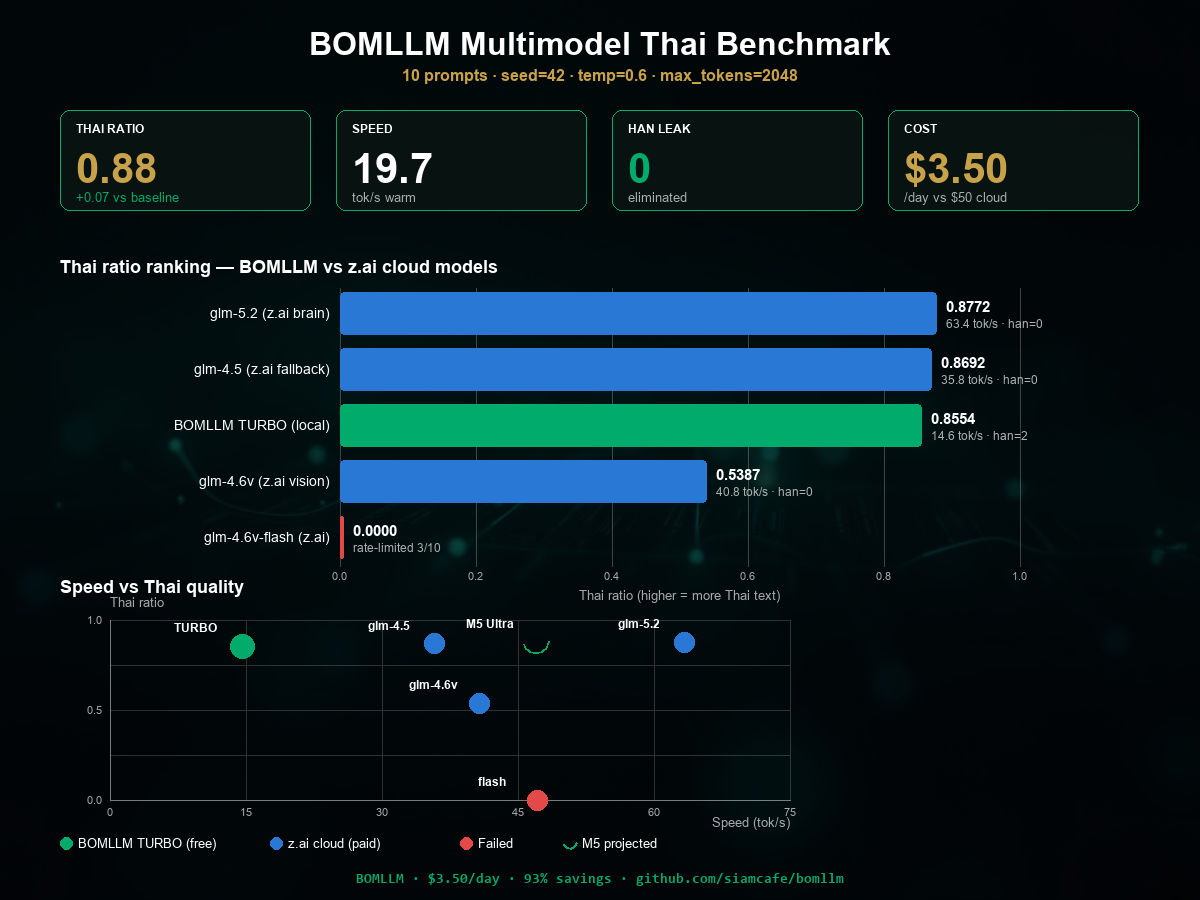
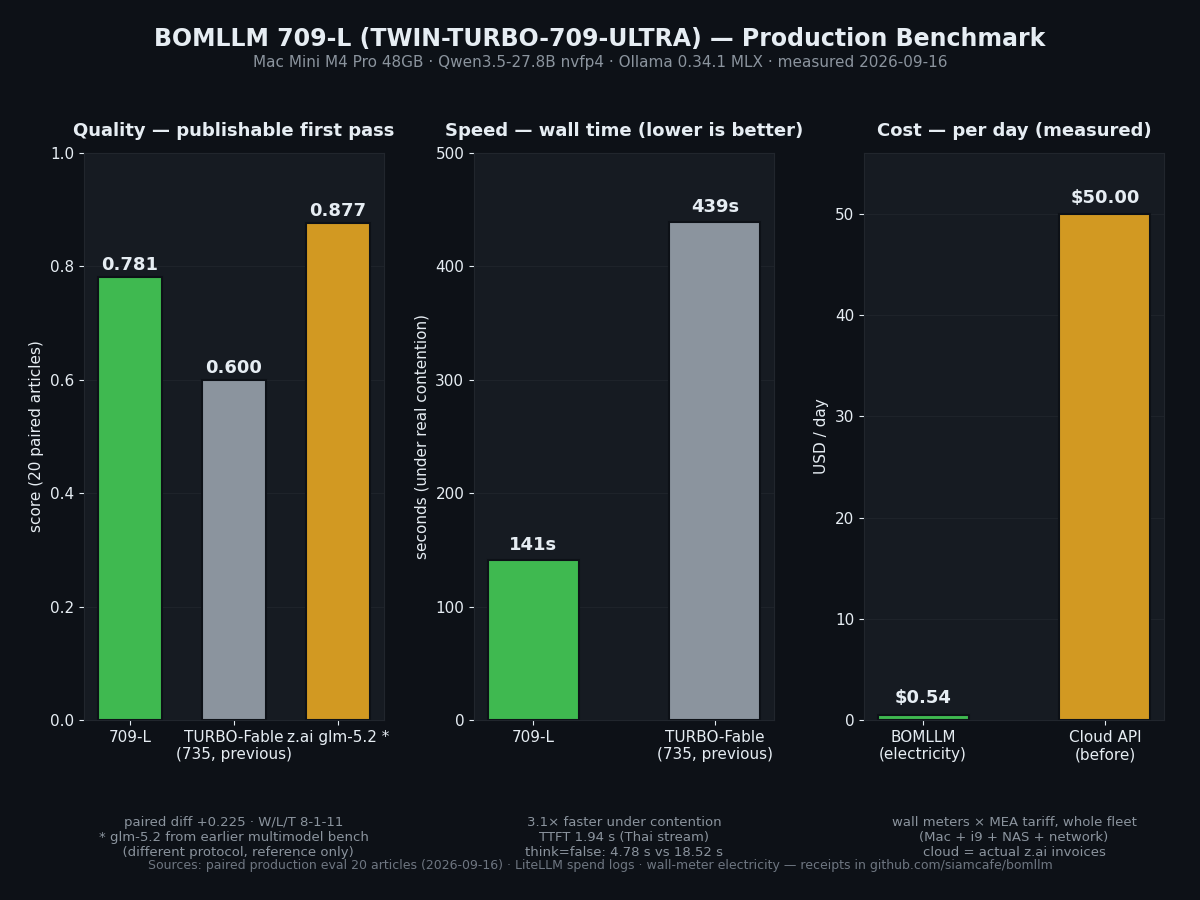
docs: update to 709-L model + Ollama 0.34.1 benchmark [ops-hub]

diff --git a/README.md b/README.md
@@ -44,8 +44,8 @@ flowchart TB
     TS{"Tailscale mesh VPN"}
 
     subgraph MAC["Mac Mini M4 Pro 48GB — 'the brain'"]
-        OL["Ollama 0.34 (MLX backend)"]
-        M1["Qwen3.8-27B class<br/>709-L nvfp4 (since 2026-09-16)<br/>~30 tok/s · 23 GB resident"]
+        OL["Ollama 0.34.1 (MLX backend)"]
+        M1["Qwen3.5-27.8B class<br/>709-L (TWIN-TURBO-709-ULTRA) nvfp4<br/>~30 tok/s · 23 GB resident"]
         EMB["bge-m3 embeddings"]
     end
 
@@ -140,14 +140,26 @@ Every number above is reproducible with [benchmarks/README.md](benchmarks/README
 
 ### The 709-L cutover (2026-09-16)
 
-The resident model was promoted from the 735 tune to **709-L** (same
-27B TURBO-Fable series, MLX nvfp4) after a paired production eval on 20
+The resident model was promoted from the 735 tune to **709-L**
+(TWIN-TURBO-709-ULTRA, Qwen3.5-27.8B, MLX nvfp4) after a paired production eval on 20
 real articles: publishable-first-pass **0.781 vs 0.600** (paired mean
 **+0.225**, W/L/T 8-1-11), wall time **141 s vs 439 s** under real
 contention. Ollama upgraded 0.33.3 → 0.34.1 in the same window
 (versioned install, seconds-level rollback via `ollama cp` from the
 kept `-bak` alias). Full protocol and honest caveats (partial reps):
 [docs/thai.md](docs/thai.md).
+
+### Post-promotion hardening (2026-09-16)
+
+- **LiteLLM `max_tokens` floors** on the three thin routes (`qwen38` 2048,
+  `qwen38-chat` 1024, `bom-read-image` 1024) — thinking-model replies can no
+  longer come back empty when a caller omits a budget.
+- **NAS grind-orphan reaper** — a scheduled script now kills runaway translate
+  jobs (>2 h, reparented to init) that were wedging the Mac MLX runner.
+- **Rollback alias retained** — `qwen38-uni-735-bak` (previous incumbent)
+  stays until 2026-09-30; restore is one `ollama cp`.
+- Re-verified after a Mac reboot: sandbox 9/9, QC suite 5/5, Thai stream
+  TTFT **1.94 s**, **576 GB** free after model cleanup.
 
 ## Quickstart
 
